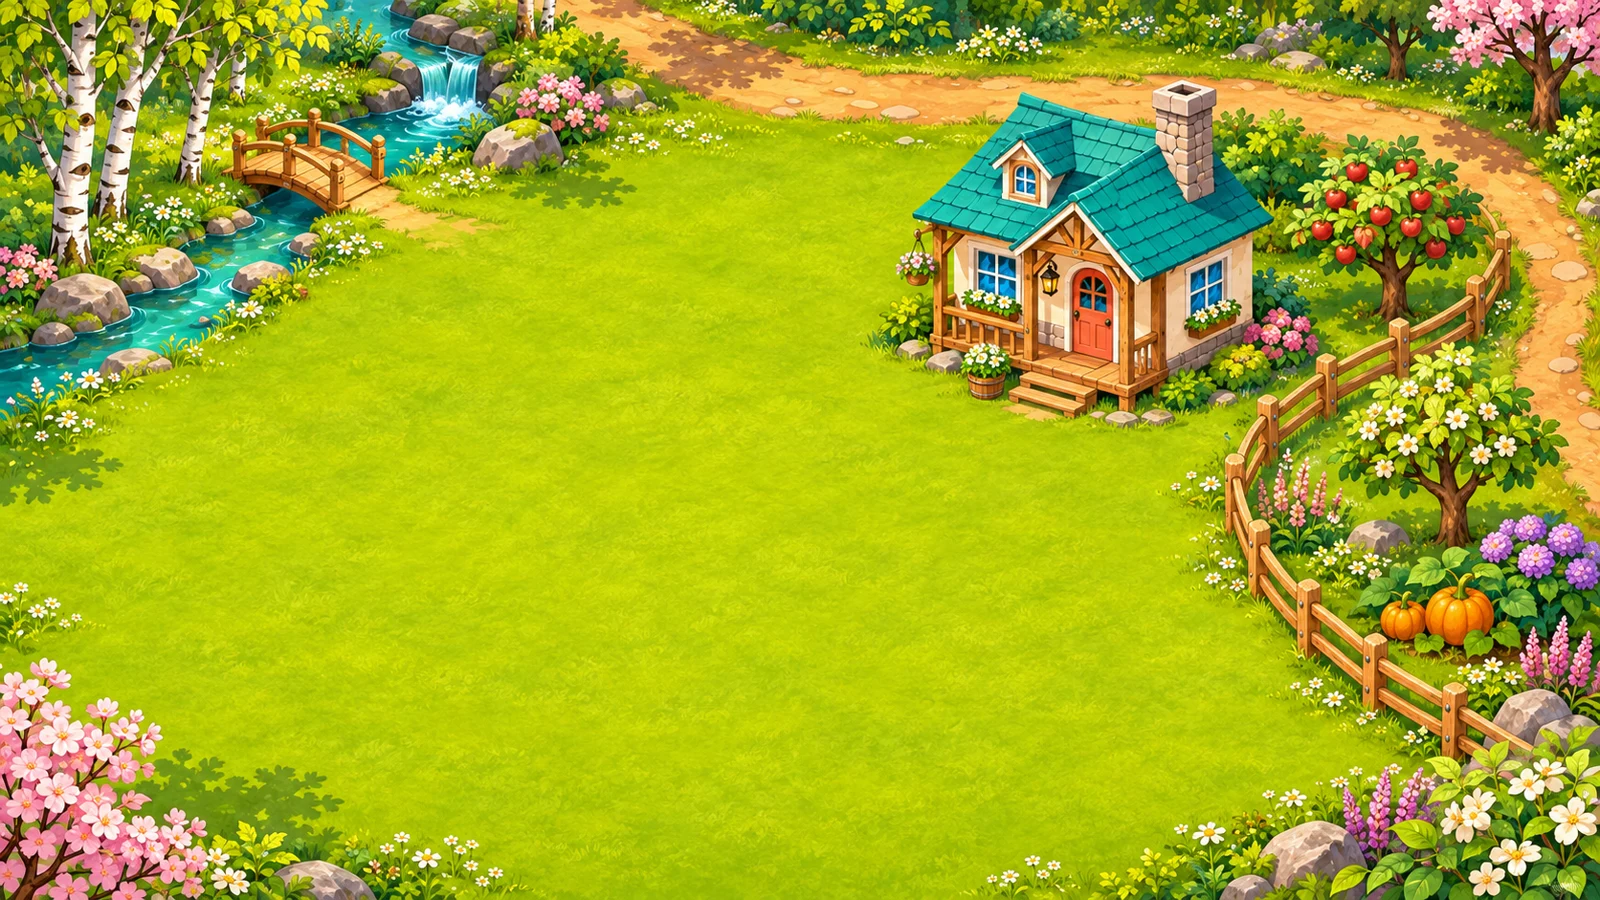
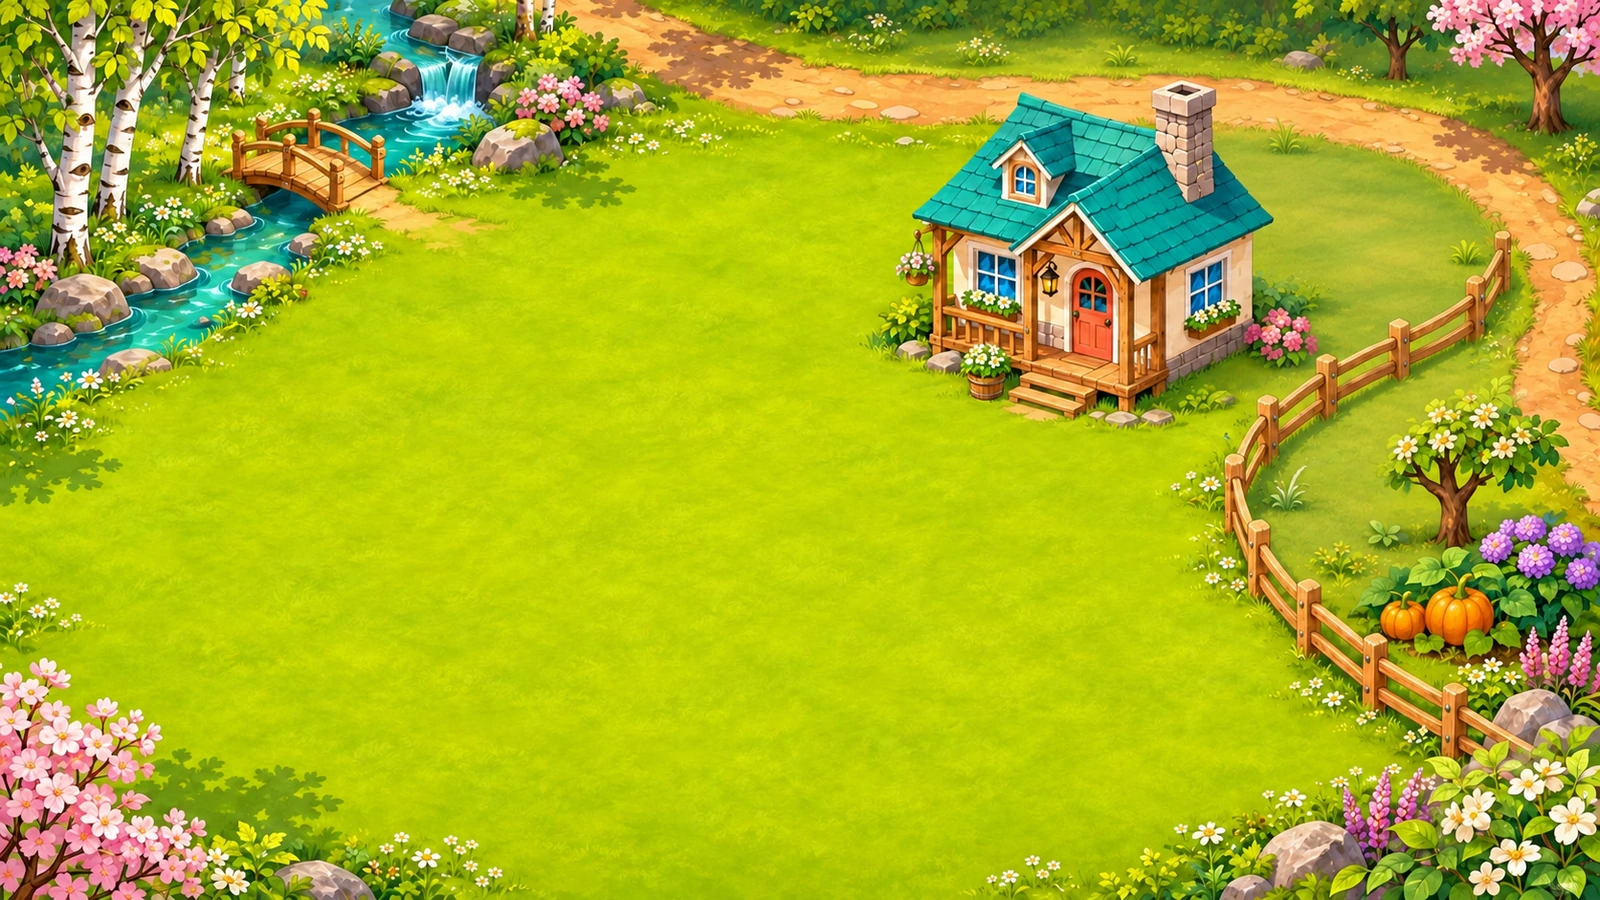
Give farm beds textured soil and clear the cottage backdrop

diff --git a/lib/main.dart b/lib/main.dart
@@ -715,55 +715,72 @@ class PlotPainter extends CustomPainter {
     canvas.save();
     canvas.clipPath(path);
 
-    // Terra: mais clara vazia; mais escura quando cultivada.
-    final soil = Paint()
-      ..shader = LinearGradient(
-        begin: Alignment.topCenter,
-        end: Alignment.bottomCenter,
-        colors: wet
-            ? const [Color(0xff744c36), Color(0xff3e382e)]
-            : !tilled
-                ? const [Color(0xFFAA9467), Color(0xFF7D6B49)]
-                : stage == 0
-                    ? const [Color(0xFFBC8A55), Color(0xFF7A4E2F)]
-                    : const [Color(0xFF9C7040), Color(0xFF5C4026)],
-      ).createShader(rect);
-    canvas.drawRect(rect, soil);
+    final colors = wet
+        ? const [Color(0xff71513a), Color(0xff443224)]
+        : stage > 0
+            ? const [Color(0xff8e653f), Color(0xff563a25)]
+            : tilled
+                ? const [Color(0xffa37a51), Color(0xff65462e)]
+                : const [Color(0xffaa8c5e), Color(0xff775b3d)];
+    canvas.drawRect(
+      rect,
+      Paint()
+        ..shader = LinearGradient(
+          begin: Alignment.topLeft,
+          end: Alignment.bottomRight,
+          colors: colors,
+        ).createShader(rect),
+    );
 
-    // Sulcos de plantio seguindo a diagonal maior do losango.
-    final furrow = Paint()
-      ..color = const Color(0xFF6B4A2C)
-      ..strokeWidth = math.max(1.5, size.width * 0.03)
-      ..strokeCap = StrokeCap.round;
-    final ridge = Paint()
-      ..color = const Color(0xFFCDA06A)
-      ..strokeWidth = math.max(1.0, size.width * 0.012)
-      ..strokeCap = StrokeCap.round;
-    for (var r = 1; tilled && r < 4; r++) {
-      final sx = size.width * (0.10 + r * 0.14);
-      final sy = size.height * (0.74 - r * 0.16);
-      final from = Offset(sx, sy);
-      final to = Offset(
-        sx + size.width * 0.38,
-        sy + size.height * 0.38,
+    final random = math.Random(47);
+    final grain = Paint();
+    for (var i = 0; i < 155; i++) {
+      final center = Offset(
+        random.nextDouble() * size.width,
+        random.nextDouble() * size.height,
       );
-      canvas.drawLine(from, to, furrow);
-      canvas.drawLine(
-        from + const Offset(0, -2),
-        to + const Offset(0, -2),
-        ridge,
+      final radius = (.26 + random.nextDouble() * .9) * size.width / 76;
+      final clod = Rect.fromCenter(
+        center: center,
+        width: radius * 2.8,
+        height: radius * 1.45,
+      );
+      canvas.drawOval(clod, grain..color = const Color(0x542e1b11));
+      canvas.drawOval(
+        clod.shift(Offset(-radius * .24, -radius * .4)),
+        grain..color = wet ? const Color(0x537e6041) : const Color(0x62d2a171),
       );
     }
 
+    if (tilled) {
+      // Broken indentations and loose clods give the bed irregular relief.
+      for (var row = 0; row < 3; row++) {
+        for (var section = 0; section < 6; section++) {
+          final t = section / 6;
+          final from = Offset(
+            size.width * (.20 + row * .14 + t * .30),
+            size.height * (.47 - row * .145 + t * .30),
+          );
+          final span = size.width * (.019 + random.nextDouble() * .031);
+          canvas.drawLine(
+            from,
+            from + Offset(span, span * .45 + random.nextDouble() - .5),
+            grain
+              ..color = const Color(0x5239281c)
+              ..strokeWidth = size.width * .015
+              ..strokeCap = StrokeCap.round,
+          );
+        }
+      }
+    }
     canvas.restore();
 
-    // Contorno: dourado quando pronto para colher.
     canvas.drawPath(
       path,
       Paint()
         ..style = PaintingStyle.stroke
-        ..strokeWidth = ready ? size.width * 0.05 : size.width * 0.035
-        ..color = ready ? const Color(0xFFFFD54F) : const Color(0xFF4A3A26),
+        ..strokeWidth = size.width * .024
+        ..color = ready ? const Color(0xffc49a48) : const Color(0xff554029),
     );
   }
 
@@ -838,7 +855,7 @@ class PlotWidget extends StatelessWidget {
                     children: [
                       Positioned(
                         left: (constraints.maxWidth - size) / 2,
-                        bottom: constraints.maxHeight * .50 - size / 16,
+                        bottom: constraints.maxHeight * .43 - size / 16,
                         width: size,
                         height: size,
                         child: Image.asset(
@@ -853,6 +870,10 @@ class PlotWidget extends StatelessWidget {
                   );
                 }),
               ),
+            ),
+          if (stage > 0)
+            IgnorePointer(
+              child: CustomPaint(painter: _CropSoilRim(stage)),
             ),
           ClipPath(
             clipper: const IsoDiamondClipper(),
@@ -1828,64 +1849,66 @@ class _HomeScreenState extends State<HomeScreen> with WidgetsBindingObserver {
                 ),
                 Align(
                   alignment: Alignment.topRight,
-                  child: Row(
-                    mainAxisSize: MainAxisSize.min,
-                    children: [
-                      _shortcut('Armazém', _FarmShortcut.warehouse,
-                          'Armazém ${player.basketCount}', _showWarehouse),
-                      _shortcut('Loja', _FarmShortcut.store,
-                          'Comprar sementes e fertilizantes', _showShop),
-                      _shortcut('Amigos', _FarmShortcut.friends,
-                          'Visitar fazendas de amigos', () {
-                        if (widget.socialClient case final client?) {
-                          showSocialFarm(context, client);
-                        } else {
-                          _showFarmDialog(
-                              'Amigos',
-                              (_) => const Text(
-                                  'O modo social está indisponível nesta versão.'));
-                        }
-                      }),
-                      _shortcut(
-                          'Ranking',
-                          _FarmShortcut.ranking,
-                          'Classificação das fazendas',
-                          () => _showFarmDialog(
-                              'Ranking',
-                              (_) => const Text(
-                                  'A classificação online ainda não está disponível.'))),
-                      _shortcut(
-                          'Avisos',
-                          _FarmShortcut.notices,
-                          'Login diário e melhorias',
-                          () => _showFarmDialog(
-                              'Avisos',
-                              (update) => Column(
-                                    mainAxisSize: MainAxisSize.min,
-                                    children: [
-                                      ListTile(
-                                          leading:
-                                              const Icon(Icons.card_giftcard),
-                                          title: const Text('Login diário'),
-                                          onTap: () {
-                                            Navigator.of(context,
-                                                    rootNavigator: true)
-                                                .pop();
-                                            _showVisits();
-                                          }),
-                                      ListTile(
-                                          leading:
-                                              const Icon(Icons.trending_up),
-                                          title: const Text('Melhorias'),
-                                          onTap: () {
-                                            Navigator.of(context,
-                                                    rootNavigator: true)
-                                                .pop();
-                                            _showUpgrades();
-                                          }),
-                                    ],
-                                  ))),
-                    ],
+                  child: _FarmPanel(
+                    child: Row(
+                      mainAxisSize: MainAxisSize.min,
+                      children: [
+                        _shortcut('Armazém', _FarmShortcut.warehouse,
+                            'Armazém ${player.basketCount}', _showWarehouse),
+                        _shortcut('Loja', _FarmShortcut.store,
+                            'Comprar sementes e fertilizantes', _showShop),
+                        _shortcut('Amigos', _FarmShortcut.friends,
+                            'Visitar fazendas de amigos', () {
+                          if (widget.socialClient case final client?) {
+                            showSocialFarm(context, client);
+                          } else {
+                            _showFarmDialog(
+                                'Amigos',
+                                (_) => const Text(
+                                    'O modo social está indisponível nesta versão.'));
+                          }
+                        }),
+                        _shortcut(
+                            'Ranking',
+                            _FarmShortcut.ranking,
+                            'Classificação das fazendas',
+                            () => _showFarmDialog(
+                                'Ranking',
+                                (_) => const Text(
+                                    'A classificação online ainda não está disponível.'))),
+                        _shortcut(
+                            'Avisos',
+                            _FarmShortcut.notices,
+                            'Login diário e melhorias',
+                            () => _showFarmDialog(
+                                'Avisos',
+                                (update) => Column(
+                                      mainAxisSize: MainAxisSize.min,
+                                      children: [
+                                        ListTile(
+                                            leading:
+                                                const Icon(Icons.card_giftcard),
+                                            title: const Text('Login diário'),
+                                            onTap: () {
+                                              Navigator.of(context,
+                                                      rootNavigator: true)
+                                                  .pop();
+                                              _showVisits();
+                                            }),
+                                        ListTile(
+                                            leading:
+                                                const Icon(Icons.trending_up),
+                                            title: const Text('Melhorias'),
+                                            onTap: () {
+                                              Navigator.of(context,
+                                                      rootNavigator: true)
+                                                  .pop();
+                                              _showUpgrades();
+                                            }),
+                                      ],
+                                    ))),
+                      ],
+                    ),
                   ),
                 ),
                 Align(

diff --git a/lib/farm_art.dart b/lib/farm_art.dart
@@ -44,15 +44,15 @@ class _CropContactShadow extends CustomPainter {
   @override
   void paint(Canvas canvas, Size size) {
     final shadow = Rect.fromCenter(
-      center: Offset(size.width / 2, size.height * .50),
-      width: size.width * (.09 + stage * .055),
-      height: size.height * (.07 + stage * .022),
+      center: Offset(size.width / 2, size.height * .57),
+      width: size.width * (.16 + stage * .06),
+      height: size.height * (.10 + stage * .023),
     );
     canvas.drawOval(
       shadow,
       Paint()
         ..shader = const RadialGradient(
-          colors: [Color(0xaa262317), Color(0x00262317)],
+          colors: [Color(0xd82a2116), Color(0x00262317)],
           stops: [.24, 1],
         ).createShader(shadow),
     );
@@ -61,4 +61,34 @@ class _CropContactShadow extends CustomPainter {
   @override
   bool shouldRepaint(_CropContactShadow oldDelegate) =>
       stage != oldDelegate.stage;
+}
+
+class _CropSoilRim extends CustomPainter {
+  const _CropSoilRim(this.stage);
+
+  final int stage;
+
+  @override
+  void paint(Canvas canvas, Size size) {
+    final center = Offset(size.width / 2, size.height * .59);
+    final clod = Paint();
+    final scale = size.width / 76;
+    for (var i = -2; i <= 2; i++) {
+      final x = i * (1.1 + stage * .42) * scale;
+      final y = (1 - i.abs() * .42) * scale;
+      final rect = Rect.fromCenter(
+        center: center + Offset(x, y),
+        width: (2.5 + stage * .28) * scale,
+        height: (1.5 + stage * .2) * scale,
+      );
+      canvas.drawOval(rect, clod..color = const Color(0xff563a25));
+      canvas.drawOval(
+        rect.deflate(.42 * scale).shift(Offset(0, -.28 * scale)),
+        clod..color = const Color(0xff87613f),
+      );
+    }
+  }
+
+  @override
+  bool shouldRepaint(_CropSoilRim oldDelegate) => stage != oldDelegate.stage;
 }
